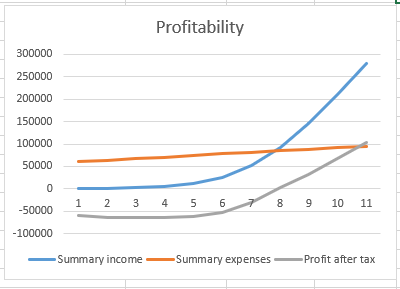
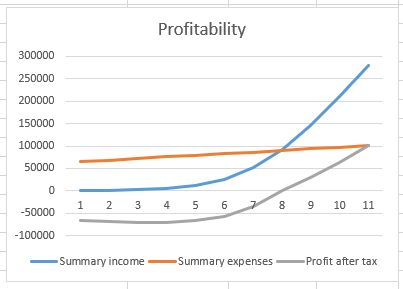
Add summary

diff --git a/business values/report/chapters/business_model.tex b/business values/report/chapters/business_model.tex
@@ -1,13 +1,13 @@
 by Pavlo Kravets
 
 
-Different segments of the market require different strategies to capture value effectively. Our possible B2B customers would have different motivations, requirements and resourses than our B2C customers. As such, we need to rely on different business models. 
+Different segments of the market require different strategies to capture value effectively. Our possible B2B customers would have different motivations, requirements and resourses than our B2C customers. As such, we need to rely on different business models.
 
 \section{B2C}
 
 For the B2C market we are employing a Freemium business model. We are separating our B2C customers into 2 groups: the subscribers and the free users.
 
-Free users will be periodically shown interstitial ads, while the subscribers will have ad-free experience. Interstitial ads vary in price quite a lot: the price depends on customers location, platform, current market demand, etc. According to the report provided by Marc Llobet Rodriguez\cite{ECPM}, in Q3 of the 2023 the CPM (cost per mille) for interstitial ads in developed countries was between 10 and 16 euros. In our calculations we assume this holds true in the future and use a CPM of 13€. 
+Free users will be periodically shown interstitial ads, while the subscribers will have ad-free experience. Interstitial ads vary in price quite a lot: the price depends on customers location, platform, current market demand, etc. According to the report provided by Marc Llobet Rodriguez\cite{ECPM}, in Q3 of the 2023 the CPM (cost per mille) for interstitial ads in developed countries was between 10 and 16 euros. In our calculations we assume this holds true in the future and use a CPM of 13€.
 
 Subscribers, on the other hand, will not be shown any ads. They will be paying a yearly subscription price instead. The price may be adjusted with various promotions, but we assume that the average yearly subscription price will be 15€. Besides the ads removal, users maz be enticed to subscribe by offering various add-ons and premium features.
 
@@ -15,8 +15,8 @@ One of the key problems in B2C market is customer churn. The 30-day retention ra
 \begin{itemize}
     \item It helps to capture more value from the impulsive purchasers. A healthcare app spending may be driven by an acute problem - for example, a period of intense neck pain. Such customers may cancel monthly subscription after the end of the acute episode
     \item It may lead to a stronger habit. The user may utilize the app more if they have already invested into yearly subscription - which, in turn, makes them more used to the app
-    \item Some customers may find a single yearly payment less worrying than a monthly expense. They will have a constant reminder of a positive sides of the app, not of the price they pay for it 
-\end{itemize} 
+    \item Some customers may find a single yearly payment less worrying than a monthly expense. They will have a constant reminder of a positive sides of the app, not of the price they pay for it
+\end{itemize}
 
 High rates of customer churn and relatively unknown market leads us to believe that we will see exponential growth in active users during the initial period, which turns to linear as time progresses.
 
@@ -31,7 +31,7 @@ Most businesses prefer to work with well-established countragents. This, as well
 
 The legal structure chosen for the company is GmbH. It provides limited liability.
 
-As discussed in chapter \ref{chp:implementation}, there are 5 founders in the company. It makes no financial sense for those founders to pay themselves salaries out of their own pocket, so they will forego salaries. This makes the expenses much lower, but means that the alternative should be calculated: how much would those people earn working as an employee in another company?
+As discussed in chapter \ref{chp:team_structure}, there are 5 founders in the company. It makes no financial sense for those founders to pay themselves salaries out of their own pocket, so they will forego salaries. This makes the expenses much lower, but means that the alternative should be calculated: how much would those people earn working as an employee in another company?
 
 \begin{figure}[H]
     \centering
@@ -44,7 +44,7 @@ In figure \ref{fig:founder_salaries} we can see salaries (brutto) for the positi
 
 \section{Cost structure}
 
-The costs for this project can be classified into two camps: one-time payments and ongoing costs. 
+The costs for this project can be classified into two camps: one-time payments and ongoing costs.
 
 There are following one-time payments:
 
@@ -53,8 +53,8 @@ There are following one-time payments:
     \item Initial marketing campaign - 10000€
     \item Initial tax advisor services - 2000€
     \item Initial lawyer expenses - 12000€
-    \item Cloud costs for initial six month - 6000€  
-\end{itemize} 
+    \item Cloud costs for initial six months - 6000€
+\end{itemize}
 
 Tax advisor and lawyer expenses are estimated based on rates and workloads.
 
@@ -73,7 +73,7 @@ Cloud computing costs are estimated based on experience with projects of similar
 Also, there are fees and taxes to include:
 
 \begin{itemize}
-    \item Marketplace fee - 30\% of subscription revenue 
+    \item Marketplace fee - 30\% of subscription revenue
     \item VAT - 19\%
     \item Corporate taxes - estimated at 30\% of profit
 \end{itemize}
@@ -82,43 +82,43 @@ Corporate taxes consist of federal corporate tax (15\%) and trade tax, which var
 
 \section{Expected performance}
 
-There are following assumptions in the business plan presented below: the subscription rate is 20\%, churn rate for subscriptions is 50\% yearly, active users view 300 ads per month on average. 
+There are following assumptions in the business plan presented below: the subscription rate is 20\%, churn rate for subscriptions is 50\% yearly, active users view 300 ads per month on average.
 
-As we can see from the table \ref{fig:budget} and graph \ref{fig:breakeven_no_salary}, we expect a net profit just in the 8th month. But given that the founders have foregone their salary, true breakeven point is in the end of the second year, as shown in graph \ref{fig:breakeven_salary}. 
+As we can see from the table \ref{fig:budget} and graph \ref{fig:breakeven_no_salary}, we expect a net profit just in the 8th month. But given that the founders have foregone their salary, true breakeven point is in the end of the second year, as shown in graph \ref{fig:breakeven_salary}.
 
 \begin{table}[]
     \resizebox{\textwidth}{!}{%
     \begin{tabular}{|l|l|l|l|l|l|l|l|l|l|l|l|l|}
-    \hline
-    Month & Customers & Subscriptions & \begin{tabular}[c]{@{}l@{}}Ad \\ revenue\end{tabular} & \begin{tabular}[c]{@{}l@{}}Subscription\\ revenue\end{tabular} & \begin{tabular}[c]{@{}l@{}}Summary\\ income\end{tabular} & \begin{tabular}[c]{@{}l@{}}Summary\\ expenses\end{tabular} & \begin{tabular}[c]{@{}l@{}}Summary\\ personal cost\end{tabular} & VAT       & Net Profit & Corporate tax & Profit after tax & Personal profit \\ \hline
-    0     & 0         & 0             & 0                                                     & 0                                                              & 0                                                        & 60000                                                      & 157500                                                          & -11400    & -60000     & 0             & -60000           & -217500         \\ \hline
-    1     & 200       & 0             & 780                                                   & 0                                                              & 780                                                      & 63550                                                      & 183750                                                          & -11926.3  & -62770     & 0             & -62770           & -246520         \\ \hline
-    2     & 400       & 40            & 1404                                                  & 420                                                            & 2604                                                     & 67100                                                      & 210000                                                          & -12254.24 & -64496     & 0             & -64496           & -274496         \\ \hline
-    3     & 800       & 80            & 2808                                                  & 420                                                            & 5832                                                     & 70650                                                      & 236250                                                          & -12315.42 & -64818     & 0             & -64818           & -301068         \\ \hline
-    4     & 1600      & 160           & 5616                                                  & 840                                                            & 12288                                                    & 74200                                                      & 262500                                                          & -11763.28 & -61912     & 0             & -61912           & -324412         \\ \hline
-    5     & 3200      & 320           & 11232                                                 & 1680                                                           & 25200                                                    & 77750                                                      & 288750                                                          & -9984.5   & -52550     & 0             & -52550           & -341300         \\ \hline
-    6     & 6400      & 640           & 22464                                                 & 3360                                                           & 51024                                                    & 81300                                                      & 315000                                                          & -5752.44  & -30276     & 0             & -30276           & -345276         \\ \hline
-    7     & 10000     & 1280          & 34008                                                 & 6720                                                           & 91752                                                    & 84850                                                      & 341250                                                          & 1311.38   & 5590.62    & 1677.186      & 3913.434         & -337336.566     \\ \hline
-    8     & 14000     & 2000          & 46800                                                 & 7560                                                           & 146112                                                   & 88400                                                      & 367500                                                          & 10965.28  & 46746.72   & 14024.016     & 32722.704        & -334777.296     \\ \hline
-    9     & 17000     & 2800          & 55380                                                 & 8400                                                           & 209892                                                   & 91950                                                      & 393750                                                          & 22408.98  & 95533.02   & 28659.906     & 66873.114        & -326876.886     \\ \hline
-    10    & 19500     & 3400          & 62790                                                 & 6300                                                           & 278982                                                   & 95500                                                      & 420000                                                          & 34861.58  & 148620.42  & 44586.126     & 104034.294       & -315965.706     \\ \hline
-    11    & 21500     & 3900          & 68640                                                 & 5250                                                           & 352872                                                   & 99050                                                      & 446250                                                          & 48226.18  & 205595.82  & 61678.746     & 143917.074       & -302332.926     \\ \hline
-    12    & 23000     & 4300          & 72930                                                 & 4200                                                           & 430002                                                   & 102600                                                     & 472500                                                          & 62206.38  & 265195.62  & 79558.686     & 185636.934       & -286863.066     \\ \hline
-    13    & 24000     & 4600          & 75660                                                 & 3150                                                           & 508812                                                   & 111150                                                     & 498750                                                          & 75555.78  & 322106.22  & 96631.866     & 225474.354       & -273275.646     \\ \hline
-    14    & 25000     & 4800          & 78780                                                 & 2100                                                           & 589692                                                   & 114700                                                     & 525000                                                          & 90248.48  & 384743.52  & 115423.056    & 269320.464       & -255679.536     \\ \hline
-    15    & 26000     & 5000          & 81900                                                 & 2310                                                           & 673902                                                   & 118250                                                     & 551250                                                          & 105573.88 & 450078.12  & 135023.436    & 315054.684       & -236195.316     \\ \hline
-    16    & 27000     & 5200          & 85020                                                 & 2310                                                           & 761232                                                   & 121800                                                     & 577500                                                          & 121492.08 & 517939.92  & 155381.976    & 362557.944       & -214942.056     \\ \hline
-    17    & 28000     & 5400          & 88140                                                 & 2520                                                           & 851892                                                   & 125350                                                     & 603750                                                          & 138042.98 & 588499.02  & 176549.706    & 411949.314       & -191800.686     \\ \hline
-    18    & 29000     & 5600          & 91260                                                 & 2940                                                           & 946092                                                   & 128900                                                     & 630000                                                          & 155266.48 & 661925.52  & 198577.656    & 463347.864       & -166652.136     \\ \hline
-    19    & 30000     & 5800          & 94380                                                 & 3780                                                           & 1044252                                                  & 132450                                                     & 656250                                                          & 173242.38 & 738559.62  & 221567.886    & 516991.734       & -139258.266     \\ \hline
-    20    & 31000     & 6000          & 97500                                                 & 5460                                                           & 1147212                                                  & 136000                                                     & 682500                                                          & 192130.28 & 819081.72  & 245724.516    & 573357.204       & -109142.796     \\ \hline
-    21    & 32000     & 6200          & 100620                                                & 5880                                                           & 1253712                                                  & 139550                                                     & 708750                                                          & 211690.78 & 902471.22  & 270741.366    & 631729.854       & -77020.146      \\ \hline
-    22    & 33000     & 6400          & 103740                                                & 6300                                                           & 1363752                                                  & 143100                                                     & 735000                                                          & 231923.88 & 988728.12  & 296618.436    & 692109.684       & -42890.316      \\ \hline
-    23    & 34000     & 6600          & 106860                                                & 5250                                                           & 1475862                                                  & 146650                                                     & 761250                                                          & 252550.28 & 1076661.72 & 322998.516    & 753663.204       & -7586.796       \\ \hline
-    24    & 35000     & 6800          & 109980                                                & 4725                                                           & 1590567                                                  & 150200                                                     & 787500                                                          & 273669.73 & 1166697.27 & 350009.181    & 816688.089       & 29188.089       \\ \hline
-\end{tabular}}
-\caption{Planned business performance}
-\label{fig:budget}
+        \hline
+        Month & Customers & Subscriptions & \begin{tabular}[c]{@{}l@{}}Ad \\ revenue\end{tabular} & \begin{tabular}[c]{@{}l@{}}Subscription\\ revenue\end{tabular} & \begin{tabular}[c]{@{}l@{}}Summary\\ income\end{tabular} & \begin{tabular}[c]{@{}l@{}}Summary\\ expenses\end{tabular} & \begin{tabular}[c]{@{}l@{}}Summary\\ personal cost\end{tabular} & VAT       & Net Profit & Corporate tax & Profit after tax & Personal profit \\ \hline
+        0     & 0         & 0             & 0                                                     & 0                                                              & 0                                                        & 65000                                                      & 157500                                                          & -12350    & -65000     & 0             & -65000           & -222500         \\ \hline
+        1     & 200       & 0             & 780                                                   & 0                                                              & 780                                                      & 68550                                                      & 183750                                                          & -12876.3  & -67770     & 0             & -67770           & -251520         \\ \hline
+        2     & 400       & 40            & 1404                                                  & 420                                                            & 2604                                                     & 72100                                                      & 210000                                                          & -13204.24 & -69496     & 0             & -69496           & -279496         \\ \hline
+        3     & 800       & 80            & 2808                                                  & 420                                                            & 5832                                                     & 75650                                                      & 236250                                                          & -13265.42 & -69818     & 0             & -69818           & -306068         \\ \hline
+        4     & 1600      & 160           & 5616                                                  & 840                                                            & 12288                                                    & 79200                                                      & 262500                                                          & -12713.28 & -66912     & 0             & -66912           & -329412         \\ \hline
+        5     & 3200      & 320           & 11232                                                 & 1680                                                           & 25200                                                    & 82750                                                      & 288750                                                          & -10934.5  & -57550     & 0             & -57550           & -346300         \\ \hline
+        6     & 6400      & 640           & 22464                                                 & 3360                                                           & 51024                                                    & 86300                                                      & 315000                                                          & -6702.44  & -35276     & 0             & -35276           & -350276         \\ \hline
+        7     & 10000     & 1280          & 34008                                                 & 6720                                                           & 91752                                                    & 89850                                                      & 341250                                                          & 361.38    & 1540.62    & 462.186       & 1078.434         & -340171.566     \\ \hline
+        8     & 14000     & 2000          & 46800                                                 & 7560                                                           & 146112                                                   & 93400                                                      & 367500                                                          & 10015.28  & 42696.72   & 12809.016     & 29887.704        & -337612.296     \\ \hline
+        9     & 17000     & 2800          & 55380                                                 & 8400                                                           & 209892                                                   & 96950                                                      & 393750                                                          & 21458.98  & 91483.02   & 27444.906     & 64038.114        & -329711.886     \\ \hline
+        10    & 19500     & 3400          & 62790                                                 & 6300                                                           & 278982                                                   & 100500                                                     & 420000                                                          & 33911.58  & 144570.42  & 43371.126     & 101199.294       & -318800.706     \\ \hline
+        11    & 21500     & 3900          & 68640                                                 & 5250                                                           & 352872                                                   & 104050                                                     & 446250                                                          & 47276.18  & 201545.82  & 60463.746     & 141082.074       & -305167.926     \\ \hline
+        12    & 23000     & 4300          & 72930                                                 & 4200                                                           & 430002                                                   & 107600                                                     & 472500                                                          & 61256.38  & 261145.62  & 78343.686     & 182801.934       & -289698.066     \\ \hline
+        13    & 24000     & 4600          & 75660                                                 & 3150                                                           & 508812                                                   & 116150                                                     & 498750                                                          & 74605.78  & 318056.22  & 95416.866     & 222639.354       & -276110.646     \\ \hline
+        14    & 25000     & 4800          & 78780                                                 & 2100                                                           & 589692                                                   & 119700                                                     & 525000                                                          & 89298.48  & 380693.52  & 114208.056    & 266485.464       & -258514.536     \\ \hline
+        15    & 26000     & 5000          & 81900                                                 & 2310                                                           & 673902                                                   & 123250                                                     & 551250                                                          & 104623.88 & 446028.12  & 133808.436    & 312219.684       & -239030.316     \\ \hline
+        16    & 27000     & 5200          & 85020                                                 & 2310                                                           & 761232                                                   & 126800                                                     & 577500                                                          & 120542.08 & 513889.92  & 154166.976    & 359722.944       & -217777.056     \\ \hline
+        17    & 28000     & 5400          & 88140                                                 & 2520                                                           & 851892                                                   & 130350                                                     & 603750                                                          & 137092.98 & 584449.02  & 175334.706    & 409114.314       & -194635.686     \\ \hline
+        18    & 29000     & 5600          & 91260                                                 & 2940                                                           & 946092                                                   & 133900                                                     & 630000                                                          & 154316.48 & 657875.52  & 197362.656    & 460512.864       & -169487.136     \\ \hline
+        19    & 30000     & 5800          & 94380                                                 & 3780                                                           & 1044252                                                  & 137450                                                     & 656250                                                          & 172292.38 & 734509.62  & 220352.886    & 514156.734       & -142093.266     \\ \hline
+        20    & 31000     & 6000          & 97500                                                 & 5460                                                           & 1147212                                                  & 141000                                                     & 682500                                                          & 191180.28 & 815031.72  & 244509.516    & 570522.204       & -111977.796     \\ \hline
+        21    & 32000     & 6200          & 100620                                                & 5880                                                           & 1253712                                                  & 144550                                                     & 708750                                                          & 210740.78 & 898421.22  & 269526.366    & 628894.854       & -79855.146      \\ \hline
+        22    & 33000     & 6400          & 103740                                                & 6300                                                           & 1363752                                                  & 148100                                                     & 735000                                                          & 230973.88 & 984678.12  & 295403.436    & 689274.684       & -45725.316      \\ \hline
+        23    & 34000     & 6600          & 106860                                                & 5250                                                           & 1475862                                                  & 151650                                                     & 761250                                                          & 251600.28 & 1072611.72 & 321783.516    & 750828.204       & -10421.796      \\ \hline
+        24    & 35000     & 6800          & 109980                                                & 4725                                                           & 1590567                                                  & 155200                                                     & 787500                                                          & 272719.73 & 1162647.27 & 348794.181    & 813853.089       & 26353.089       \\ \hline
+    \end{tabular}}
+    \caption{Planned business performance}
+    \label{fig:budget}
 \end{table}
 
 \begin{figure}[H]

diff --git a/business values/report/chapters/summary.tex b/business values/report/chapters/summary.tex
@@ -1,0 +1,7 @@
+The project that was detailed in this report is a promising development. It offers much better scalabilty than a typical computer vision startup due to solution being mostly client-side. It taps into underdeveloped market with few competitors. It provides a solution to a problem that will only grow bigger as society ages and becomes more sedentiary.
+
+Initial investment and projected maximum loss are low as startups go - only 60000€ and 65000€. This is not a blitzscaler that wil continue burning through the money for decades to come. In the world, where interest rates are no longer indestinguishible from zero, more steady and methodic approach is much more sensible.
+
+It would also be important to note, that the estimations provided in the report are conservative in a number of ways. For example, it does not take into account various incubator programs, such as one provided by the BHT, while it could save a lot of expenses, such as providing infrastructure or legal guidance, as well as partially compensating lost salaries. 
+
+Overall, this project has a potential. A potential to be Germany's new hidden gem company - not a flashy name that would provoke a hundred imitators, but simply a team of professionals that are the best at what they do. And Germany would be wise to support it.

diff --git a/business values/report/main.tex b/business values/report/main.tex
@@ -59,14 +59,6 @@
 		\input{chapters/business_model_canvas}
 	}
 
-    % Business Model
-	{
-		\FloatBarrier
-		\chapter{Business Model}
-		\label{chp:business_model}
-		\input{chapters/business_model}
-	}
-
     % Strategic Analysis
 	{
 		\FloatBarrier
@@ -105,6 +97,14 @@
 		\chapter{Timeline for launching PoseFix}
 		\label{chp:timeline}
 		\input{chapters/timeline}
+	}
+
+    % Business Model
+	{
+		\FloatBarrier
+		\chapter{Business Model}
+		\label{chp:business_model}
+		\input{chapters/business_model}
 	}
 
     % Executive summary
